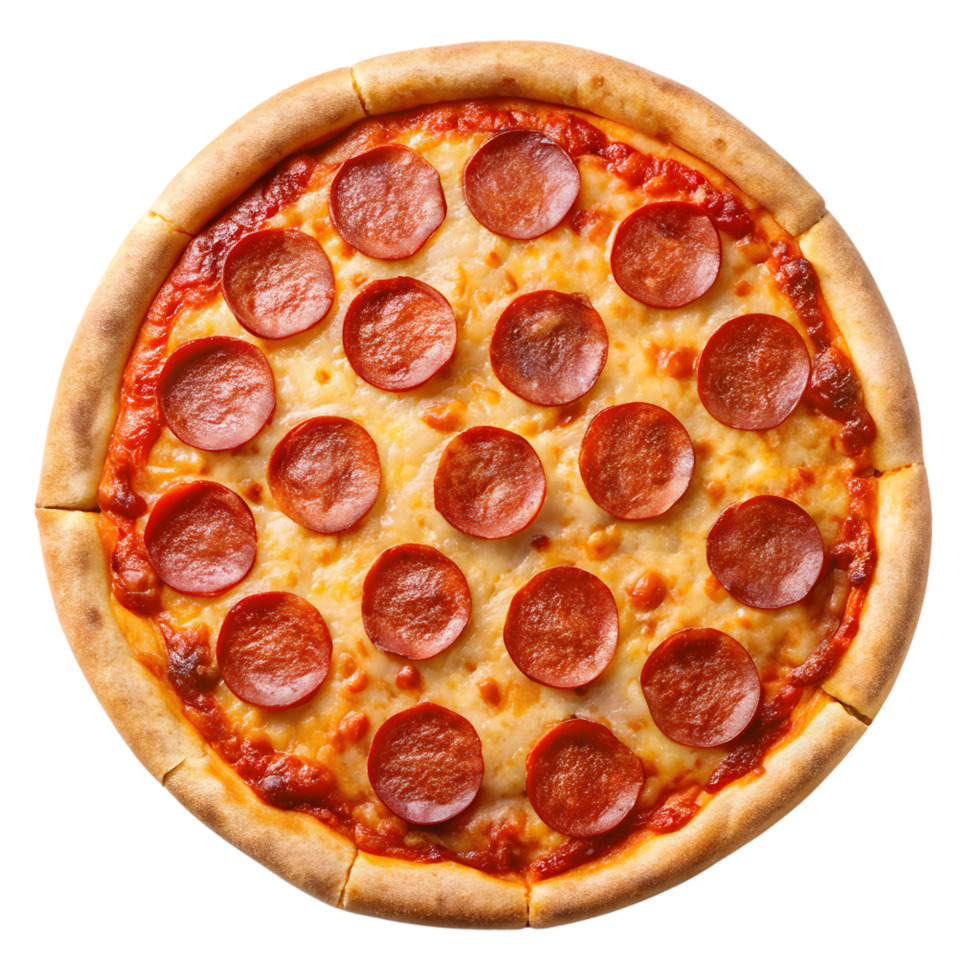
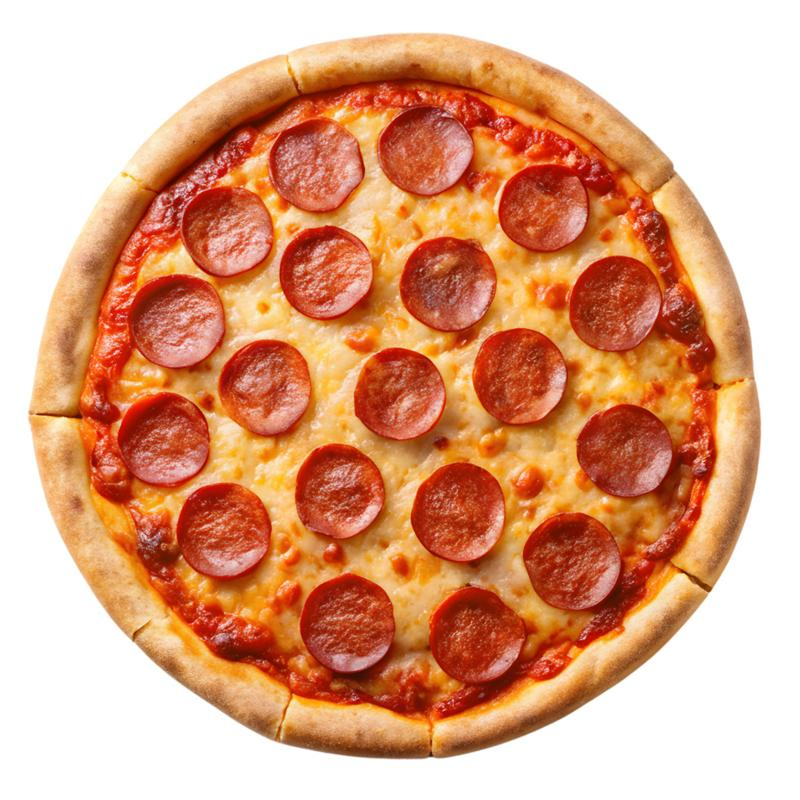
Avance 4: optimizacion de Lighthouse (fotos comprimidas, CLS y carga inicial) y Service Worker regenerado - IMPERIAL SILVA JOSE EDUARDO

diff --git a/sw.js b/sw.js
@@ -1,3 +1,3 @@
-if(!self.define){let e,i={};const a=(a,c)=>(a=new URL(a+".js",c).href,i[a]||new Promise(i=>{if("document"in self){const e=document.createElement("script");e.src=a,e.onload=i,document.head.appendChild(e)}else e=a,importScripts(a),i()}).then(()=>{let e=i[a];if(!e)throw new Error(`Module ${a} didn’t register its module`);return e}));self.define=(c,r)=>{const s=e||("document"in self?document.currentScript.src:"")||location.href;if(i[s])return;let o={};const d=e=>a(e,s),f={module:{uri:s},exports:o,require:d};i[s]=Promise.all(c.map(e=>f[e]||d(e))).then(e=>(r(...e),o))}}define(["./workbox-ed2158a8"],function(e){"use strict";self.skipWaiting(),e.clientsClaim(),e.precacheAndRoute([{url:"manifest.json",revision:"892b3b265b5f95b037610b0fbc98fee2"},{url:"index.html",revision:"ee65b73d57023c66f4ec2a967a40e8d8"},{url:"catalogo.json",revision:"bfe9954ae822c91137f274c2ff33baa1"},{url:"js/notificaciones.js",revision:"8c561ab933cda4cfef87c8cc1d9b2786"},{url:"js/geolocalizacion.js",revision:"8ba042ebe212566dd7f434d91f9bfd6f"},{url:"js/csr.js",revision:"3ea1ab713d108098d6445cec284fade6"},{url:"js/carrito.js",revision:"8ce69b8d3a4dc7e88ed055c548618145"},{url:"js/app.js",revision:"94df996d93eb2a83468a4136ef48c103"},{url:"img/tiramisu.jpg",revision:"ab33fe121bcb68fd643903149b66fb0e"},{url:"img/sodaitaliana.jpg",revision:"68e315517d4a0c0877a0720aaccdf24f"},{url:"img/refresco2lt.jpg",revision:"5d261f133ee36465e5f836bd59e5eeec"},{url:"img/pizzapeperoni.jpg",revision:"02e7f9e1db8d8d5e369dcba702273d61"},{url:"img/pizzamargarita.jpg",revision:"79fe51e242b0c65808e8a2b69c5a7dd3"},{url:"img/pizzaimperialsuprema.jpg",revision:"882343ff0c20888d81fd898dc8f92a31"},{url:"img/pizzahawaiana.jpg",revision:"ffbea8cdf67112dacd58ef23b422c6d5"},{url:"img/pizzadenutella.jpg",revision:"5a17a115dec4b300ccc8670b3c9bd263"},{url:"img/pizzacuatroquesos.jpg",revision:"275f939ced783eddbd450ba0cd38f5db"},{url:"img/pandeajo.jpg",revision:"d3f9e28c96417a2e9a955bf6ae151a79"},{url:"img/palitosdequeso.jpg",revision:"153e6061198ff2f242c1e92724abf72b"},{url:"img/logo.jpg",revision:"e1eddc9e90bfcf7bac653d6b49dcd2a6"},{url:"img/limonada.jpg",revision:"cb076257330b8cacb918b7ccae974564"},{url:"img/ensaladacesar.jpg",revision:"21a7ea6507a501a59a9b3609a52bc50a"},{url:"img/calzone.jpg",revision:"cffdff3eca9934ea7d5afb2356e3d877"},{url:"img/alitas.jpg",revision:"cb1799a265ec86a726e742fc6d20e4e5"},{url:"icons/icon-512.png",revision:"2a1898329c3f119f2fd637bb5bbf023d"},{url:"icons/icon-192.png",revision:"e741806edccf179c62108af973fb105c"},{url:"css/estilos.css",revision:"c9d30cc91184c2028a0d6453ec6a1090"}],{ignoreURLParametersMatching:[/^utm_/,/^fbclid$/]})});
+if(!self.define){let e,i={};const c=(c,a)=>(c=new URL(c+".js",a).href,i[c]||new Promise(i=>{if("document"in self){const e=document.createElement("script");e.src=c,e.onload=i,document.head.appendChild(e)}else e=c,importScripts(c),i()}).then(()=>{let e=i[c];if(!e)throw new Error(`Module ${c} didn’t register its module`);return e}));self.define=(a,r)=>{const s=e||("document"in self?document.currentScript.src:"")||location.href;if(i[s])return;let f={};const o=e=>c(e,s),n={module:{uri:s},exports:f,require:o};i[s]=Promise.all(a.map(e=>n[e]||o(e))).then(e=>(r(...e),f))}}define(["./workbox-ed2158a8"],function(e){"use strict";self.skipWaiting(),e.clientsClaim(),e.precacheAndRoute([{url:"manifest.json",revision:"892b3b265b5f95b037610b0fbc98fee2"},{url:"index.html",revision:"183bc97acc09761219d4064b5b86a495"},{url:"catalogo.json",revision:"bfe9954ae822c91137f274c2ff33baa1"},{url:"js/notificaciones.js",revision:"8c561ab933cda4cfef87c8cc1d9b2786"},{url:"js/geolocalizacion.js",revision:"8ba042ebe212566dd7f434d91f9bfd6f"},{url:"js/csr.js",revision:"c51d0b840148c69b4e263ac577c2b8c2"},{url:"js/carrito.js",revision:"8ce69b8d3a4dc7e88ed055c548618145"},{url:"js/app.js",revision:"94df996d93eb2a83468a4136ef48c103"},{url:"img/tiramisu.jpg",revision:"f481f46c219d0c08527381a9e4571dca"},{url:"img/sodaitaliana.jpg",revision:"4973575ef36afa26130c12467713da4c"},{url:"img/refresco2lt.jpg",revision:"19267ad19d49f8caa9a31ba332d4c5b1"},{url:"img/pizzapeperoni.jpg",revision:"0991f9fd305cc1b4312213ddd7ccc82d"},{url:"img/pizzamargarita.jpg",revision:"06f91029737b71275816c555f28d46a8"},{url:"img/pizzaimperialsuprema.jpg",revision:"1076b4e01a1f36ceb78168aa5fdc912c"},{url:"img/pizzahawaiana.jpg",revision:"d558706587f9db2b69370d7821443c0d"},{url:"img/pizzadenutella.jpg",revision:"fa554dfefda4b124a9d9ef21536446c2"},{url:"img/pizzacuatroquesos.jpg",revision:"6f472625f660d6b4c3b7019e6fe5efdc"},{url:"img/pandeajo.jpg",revision:"03df70e76ee0bdf5639c8f1aa6ad637e"},{url:"img/palitosdequeso.jpg",revision:"eb85b861b416c4780ba8cccffb675d35"},{url:"img/logo.jpg",revision:"34c9f7810afec23357ae83b29693b2c1"},{url:"img/limonada.jpg",revision:"efe4d7f2edaca408fe24370cb0e6c319"},{url:"img/ensaladacesar.jpg",revision:"d4bfb521d7756a419e9be9b295f90f07"},{url:"img/calzone.jpg",revision:"9933bc97af290cfc0c88e1a5191a2fe0"},{url:"img/alitas.jpg",revision:"1c7147f161cd6d4d39689f2044fac142"},{url:"icons/icon-512.png",revision:"2a1898329c3f119f2fd637bb5bbf023d"},{url:"icons/icon-192.png",revision:"e741806edccf179c62108af973fb105c"},{url:"css/estilos.css",revision:"03e0a024516ba958532580f1a61984f9"}],{ignoreURLParametersMatching:[/^utm_/,/^fbclid$/]})});
 //# sourceMappingURL=sw.js.map
 //# sourceMappingURL=sw.js.map

diff --git a/index.html b/index.html
@@ -16,7 +16,11 @@
     <link rel="stylesheet" href="css/estilos.css">
 
     <!-- Leaflet: librería de mapas gratuita (sin API key) para dibujar la ruta a la sucursal -->
-    <link rel="stylesheet" href="https://cdnjs.cloudflare.com/ajax/libs/leaflet/1.9.4/leaflet.min.css">
+    <link rel="stylesheet" href="https://cdnjs.cloudflare.com/ajax/libs/leaflet/1.9.4/leaflet.min.css" media="print"
+        onload="this.media='all'">
+
+    <!-- La foto del primer producto es lo más grande al abrir: se adelanta su descarga -->
+    <link rel="preload" as="image" href="img/pizzamargarita.jpg" fetchpriority="high">
 </head>
 
 <body>
@@ -76,7 +80,7 @@
     <script src="js/carrito.js"></script>
     <script src="js/csr.js"></script>
     <script src="js/notificaciones.js"></script>
-    <script src="https://cdnjs.cloudflare.com/ajax/libs/leaflet/1.9.4/leaflet.min.js"></script>
+    <script src="https://cdnjs.cloudflare.com/ajax/libs/leaflet/1.9.4/leaflet.min.js" defer></script>
     <script src="js/geolocalizacion.js"></script>
     <script src="js/app.js"></script>
 

diff --git a/js/csr.js b/js/csr.js
@@ -14,13 +14,16 @@ fetch("catalogo.json")
         contenedorCatalogo.removeAttribute("aria-busy");
         contenedorCatalogo.removeAttribute("aria-label");
 
-        productos.forEach((producto) => {
+        productos.forEach((producto, indice) => {
             const tarjeta = document.createElement("div");
             tarjeta.className = "producto";
             tarjeta.dataset.categoria = producto.categoria; // queda como data-categoria="..."
 
+            // la primera foto es la que se ve al abrir: se pide de inmediato, las demás al hacer scroll
+            const carga = indice === 0 ? 'fetchpriority="high"' : 'loading="lazy"';
+
             tarjeta.innerHTML = `
-        <img class="producto__foto" src="${producto.imagen}" alt="${producto.nombre}" loading="lazy">
+        <img class="producto__foto" src="${producto.imagen}" alt="${producto.nombre}" width="800" height="600" ${carga}>
         <strong>${producto.nombre}</strong>
         <span class="precio">$${producto.precio}</span>
         <p>Stock: ${producto.stock}</p>

diff --git a/css/estilos.css b/css/estilos.css
@@ -254,6 +254,8 @@ main section {
     display: grid;
     grid-template-columns: repeat(auto-fill, minmax(220px, 1fr));
     gap: 1rem;
+    /* Reserva espacio antes de que csr.js dibuje las tarjetas: evita el salto de diseño (CLS) */
+    min-height: 100vh;
 }
 
 .producto {
